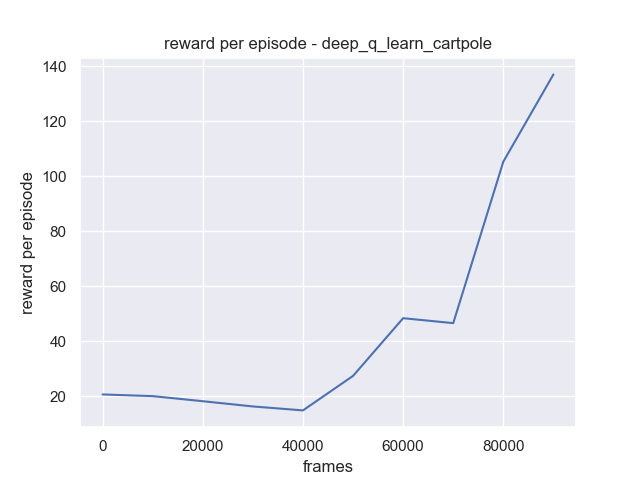
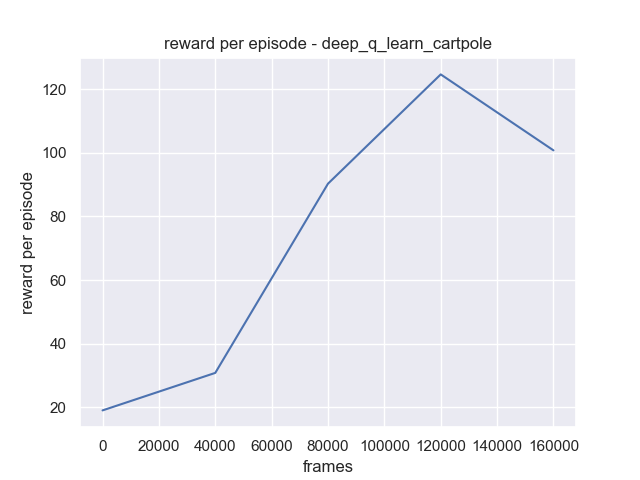
123

diff --git a/main.py b/main.py
@@ -5,19 +5,19 @@ from exploration import Explorations, Exploration
 
 class parameters:
     # general parameters
-    name: str = "test" # (name of the trained agent)
-    train_loop: Callable = actor_critic_learn # (choose between deep q learning, policy gradient, actor critic, eval)
-    exploration: Explorations = Explorations.normal_distribution # (How to choose action from output of agent)
+    name: str = "deep_q_learn_cartpole" # (name of the trained agent)
+    train_loop: Callable = deep_q_learn # (choose between deep q learning, policy gradient, actor critic, eval)
+    exploration: Explorations = Explorations.linearly_decaying_eps_greedy # (How to choose action from output of agent)
     # (choose between epsilon greedy, greedy, multinomial (eg. If discrete REINFORCE), normal distribution (cont. REINFORCE), etc.)
 
     # training parameters
     batch_size: int = 512
-    learning_rate: float = 2e-4 # (if multiple agents are used this learning rate is used for all of them)
+    learning_rate: float = 1e-3 # (if multiple agents are used this learning rate is used for all of them)
     weight_decay: float = 1e-5
-    trains_every_frames: int = 1
+    trains_every_frames: int = 2
 
     # only used with a replay buffer
-    train_after_frames: int = 50000
+    train_after_frames: int = 20000
     buffer_size: int = 200000
     update_target_every_frames: int = 1000
 
@@ -26,7 +26,7 @@ class parameters:
     baseline_model: bool = True # (whether to use a baseline or not (for advantage function estimation))
 
     # agent parameters
-    gamma: float = 0.99 # (only used with td learning)
+    gamma: float = 0.995 # (only used with td learning)
     lambda_: float = 0.9 # (only used with eligibility traces)
     sample_lengths: int = 100 # (only used with eligibility traces and only has effect when lambda_ > 0)
     entropy_regulization: float = 0.2 # (only used with policy agents)
@@ -34,13 +34,13 @@ class parameters:
     # only used with epsilon greedy
     epsilon_start: float = 0.9
     epsilon_end: float = 0.1
-    decay_period_of_epsilon: int = 200000
+    decay_period_of_epsilon: int = 100000
 
     # environment parameters
-    env_name: str = "LunarLander-v2" # (choose between LunarLander-v2, CartPole-v1, etc.)
+    env_name: str = "CartPole-v1" # (choose between LunarLander-v2, CartPole-v1, etc.)
     render_mode: str = None # (human or None, only use human if very few num_envs and you want to see it play while training (is always human if eval mode))
-    continuous: bool = True # (whether the environment is continuous or not)
-    num_envs: int = 2
+    continuous: bool = False # (whether the environment is continuous or not)
+    num_envs: int = 16 # (how many environments to run in parallel)
 
     # extra parameters
     save_agent_every: int = 40000 # (how many frames before screenshot of agent and it's performance is saved)

diff --git a/helpers.py b/helpers.py
@@ -40,7 +40,7 @@ def write_parameters(params):
 
 def get_action_space(env, continuous, **args):
     if continuous:
-        return env.action_space.shape[0]
+        return env.action_space.shape[1]
     else:
         return env.action_space[0].n
 
@@ -56,12 +56,14 @@ def eval_mode(**args):
                 args["train_loop"] = line.split("train_loop: ")[1].strip()
             if line.startswith("continuous: "):
                 args["continuous"] = line.split("continuous: ")[1].strip() == "True"
+            if line.startswith("env_name: "):
+                args["env_name"] = line.split("env_name: ")[1].strip()
             # if no more lines break
             if line == "":
                 break
-    if args["train_loop"].__name__ == "deep_q_learn":
+    if args["train_loop"] == "deep_q_learn":
         args["exploration"] = Explorations.greedy
-    elif args["train_loop"].__name__ == "reinforce_learn" or args["train_loop"].__name__ == "actor_critic_learn":
+    elif args["train_loop"] == "reinforce_learn" or args["train_loop"] == "actor_critic_learn":
         args["exploration"] = Explorations.multinomial
     if args["continuous"]:
         args["exploration"] = Explorations.normal_distribution

diff --git a/game_loops.py b/game_loops.py
@@ -11,6 +11,10 @@ def eval(**args):
     state, _ = env.reset()
     if args['train_loop'] == "deep_q_learn":
         agent = QAgent(env, **args)
+    elif args['train_loop'] == "reinforce_learn":
+        agent = REINFORCE_Agent(env, **args)
+    elif args['train_loop'] == "actor_critic_learn":
+        agent = Actorcritic_actor(env, **args)
     agent.network.load_state_dict(torch.load("trained_agents/" + args["name"] + "/model.pt"))
     while True:
         action = agent.take_action(state)
